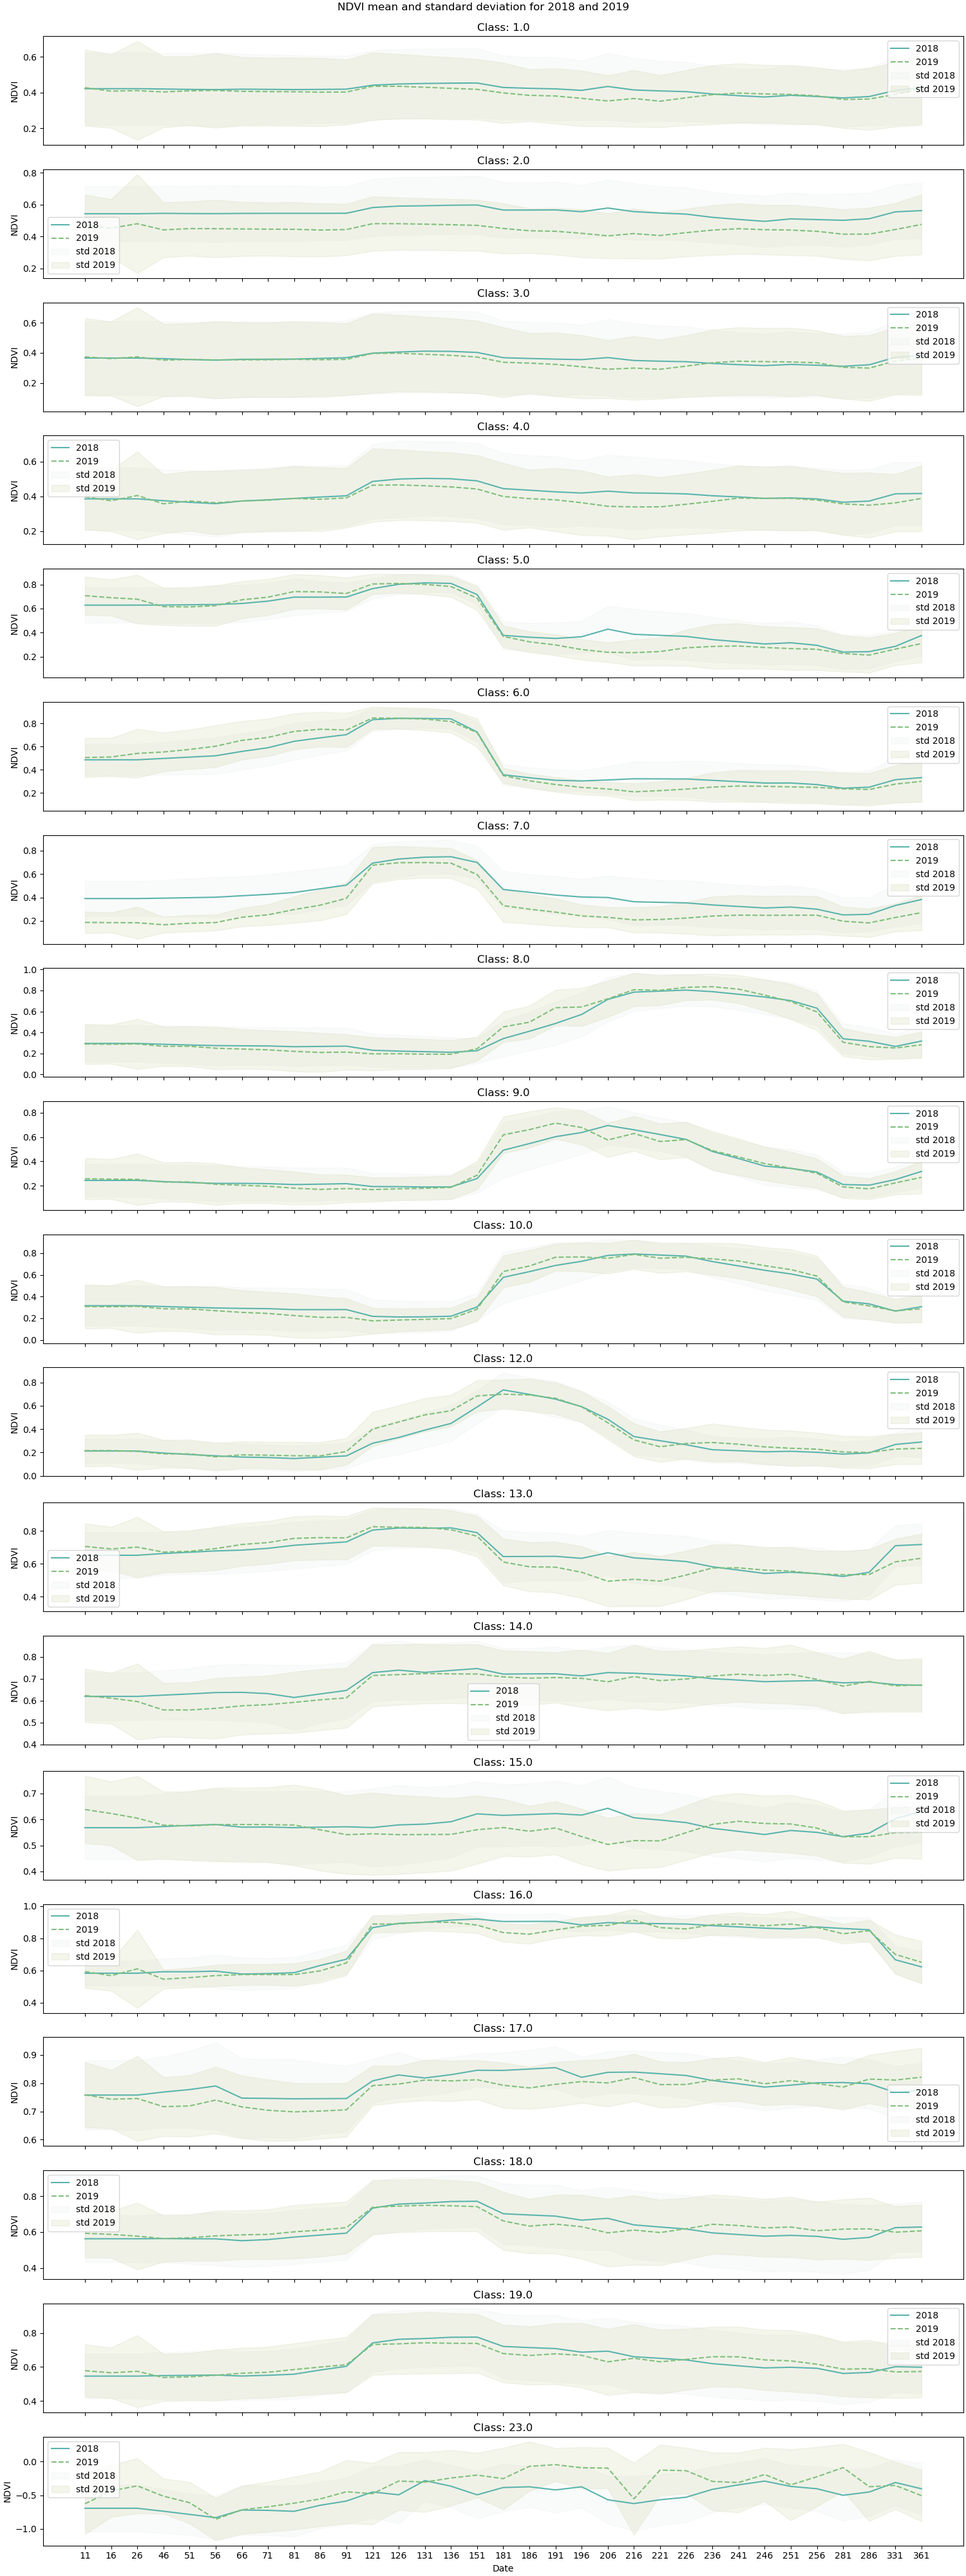
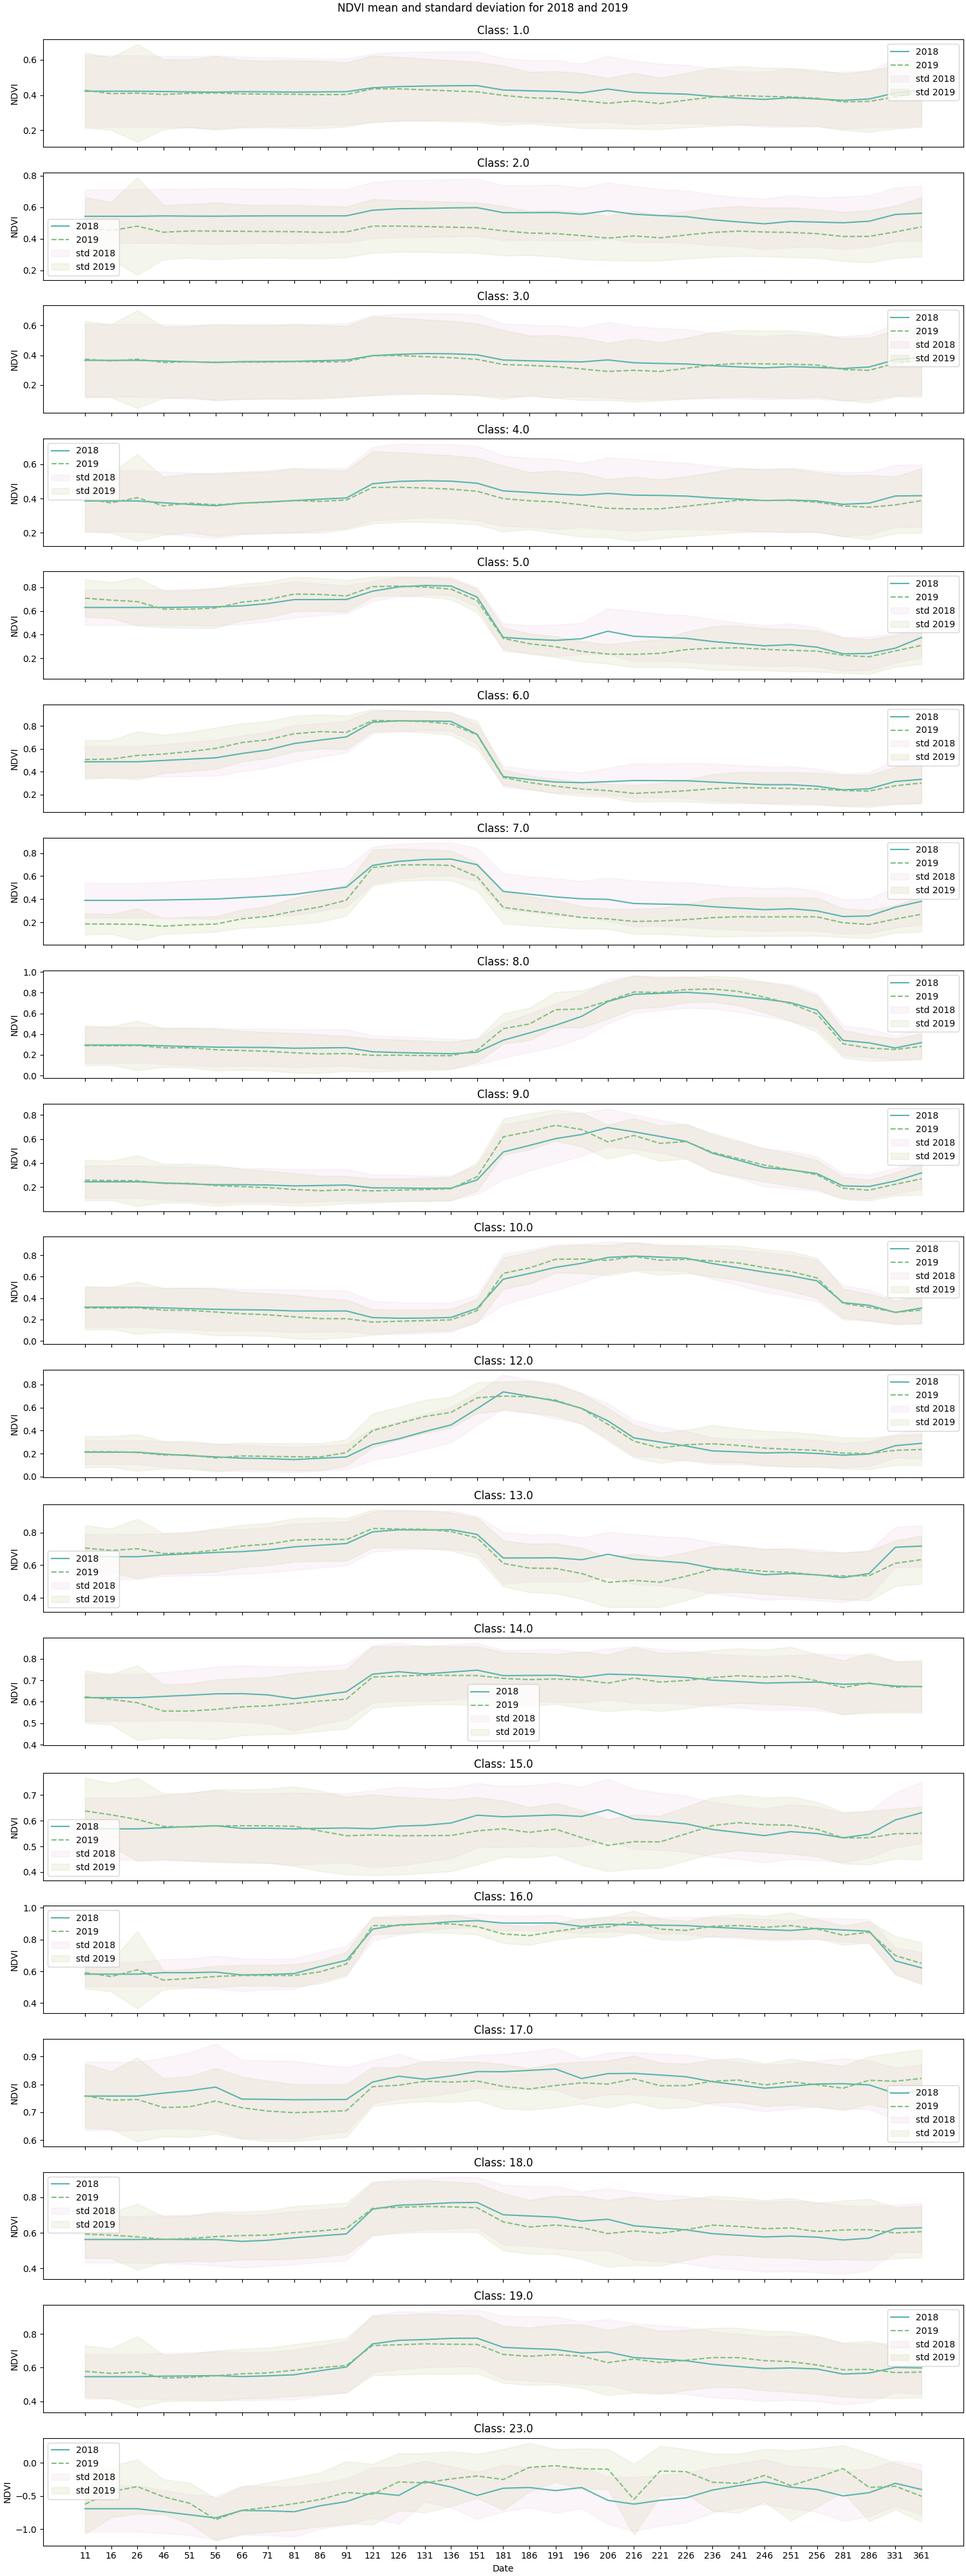
Random pixels

diff --git a/sample_preparation/ndvi2.py b/sample_preparation/ndvi2.py
@@ -105,7 +105,7 @@ def plot_chart_ms(ndvi2018, ndvi2019, title):
     for i in range(len(ndvi2018[0])):
         ax[i].plot(ndvi2018[0].iloc[i], color='#5ab4ac', label='2018')
         ax[i].plot(ndvi2019[0].iloc[i], color= '#7fbf7b', linestyle='--', label='2019')
-        ax[i].fill_between(range(L), ndvi2018[0].iloc[i] - ndvi2018[1].iloc[i], ndvi2018[0].iloc[i] + ndvi2018[1].iloc[i], alpha=0.1, color = '#CCD8D3', label = 'std 2018')
+        ax[i].fill_between(range(L), ndvi2018[0].iloc[i] - ndvi2018[1].iloc[i], ndvi2018[0].iloc[i] + ndvi2018[1].iloc[i], alpha=0.1, color = '#D89CCB', label = 'std 2018')
         ax[i].fill_between(range(L), ndvi2019[0].iloc[i] - ndvi2019[1].iloc[i], ndvi2019[0].iloc[i] + ndvi2019[1].iloc[i], alpha=0.2, color='#CBCD9C', label='std 2019')
         ax[i].set_title("Class: " + str(ndvi2018[0].index[i]))
         ax[i].set_ylabel("NDVI")
@@ -172,7 +172,7 @@ def prepare_NDVI_for_random_pixel(f_path):
     # rename other columns to doy
     df.columns = [*date_label, "code"]
 
-    random_sample = df.groupby("code").apply(lambda x: x.sample(n=1))
+    random_sample = df.groupby("code").apply(lambda x: x.sample(n=2))
 
     random_sample.drop(columns=["code"], inplace=True)
 
@@ -180,13 +180,13 @@ def prepare_NDVI_for_random_pixel(f_path):
 
 
 def plot_chart_random(ndvi2018, ndvi2019, title):
-    fig, ax = plt.subplots(len(ndvi2018[0]), sharex=True, figsize=(15, 40), constrained_layout=True)
+    fig, ax = plt.subplots(2*len(ndvi2018), sharex=True, figsize=(15, 40), constrained_layout=True)
 
     for i in range(len(ndvi2018)):
         ax[i].plot(ndvi2018.iloc[i], color='#5ab4ac', label='2018')
         ax[i].plot(ndvi2019.iloc[i], color= '#7fbf7b', linestyle='--', label='2019')
 
-        ax[i].set_title("Class: " + str(ndvi2018[i].index[i]))
+        ax[i].set_title("Class: " + str(ndvi2018.index[i]))
         ax[i].set_ylabel("NDVI")
         ax[i].legend()
         fig.suptitle(title)
@@ -194,15 +194,16 @@ def plot_chart_random(ndvi2018, ndvi2019, title):
         fig.savefig(os.path.join(output_path, "NDVI_random_pixels.png"))
 
 def plot_NDVI():
-    ndvi1 = prepare_NDVI(f_path)
-    ndvi2 = prepare_NDVI(f_path2)
+#    ndvi1 = prepare_NDVI(f_path)
+#    ndvi2 = prepare_NDVI(f_path2)
+    ndvi1 = prepare_NDVI_for_random_pixel(f_path)
+    ndvi2 = prepare_NDVI_for_random_pixel(f_path2)
 
-    plot_chart_ms(ndvi1, ndvi2, "NDVI mean and standard deviation for 2018 and 2019")
-    plot_chart_m(ndvi1, ndvi2, "NDVI mean for 2018 and 2019")
-    plot_chart_y(ndvi1, "NDVI mean for 2018")
-    plot_chart_y(ndvi2, "NDVI mean for 2019")
+#    plot_chart_ms(ndvi1, ndvi2, "NDVI mean and standard deviation for 2018 and 2019")
+#    plot_chart_m(ndvi1, ndvi2, "NDVI mean for 2018 and 2019")
+#    plot_chart_y(ndvi1, "NDVI mean for 2018")
+#    plot_chart_y(ndvi2, "NDVI mean for 2019")
     plot_chart_random(ndvi1, ndvi2, "Class NDVI for random pixels 2018 and 2019")
-    
 
 
 time_start = time.time()
